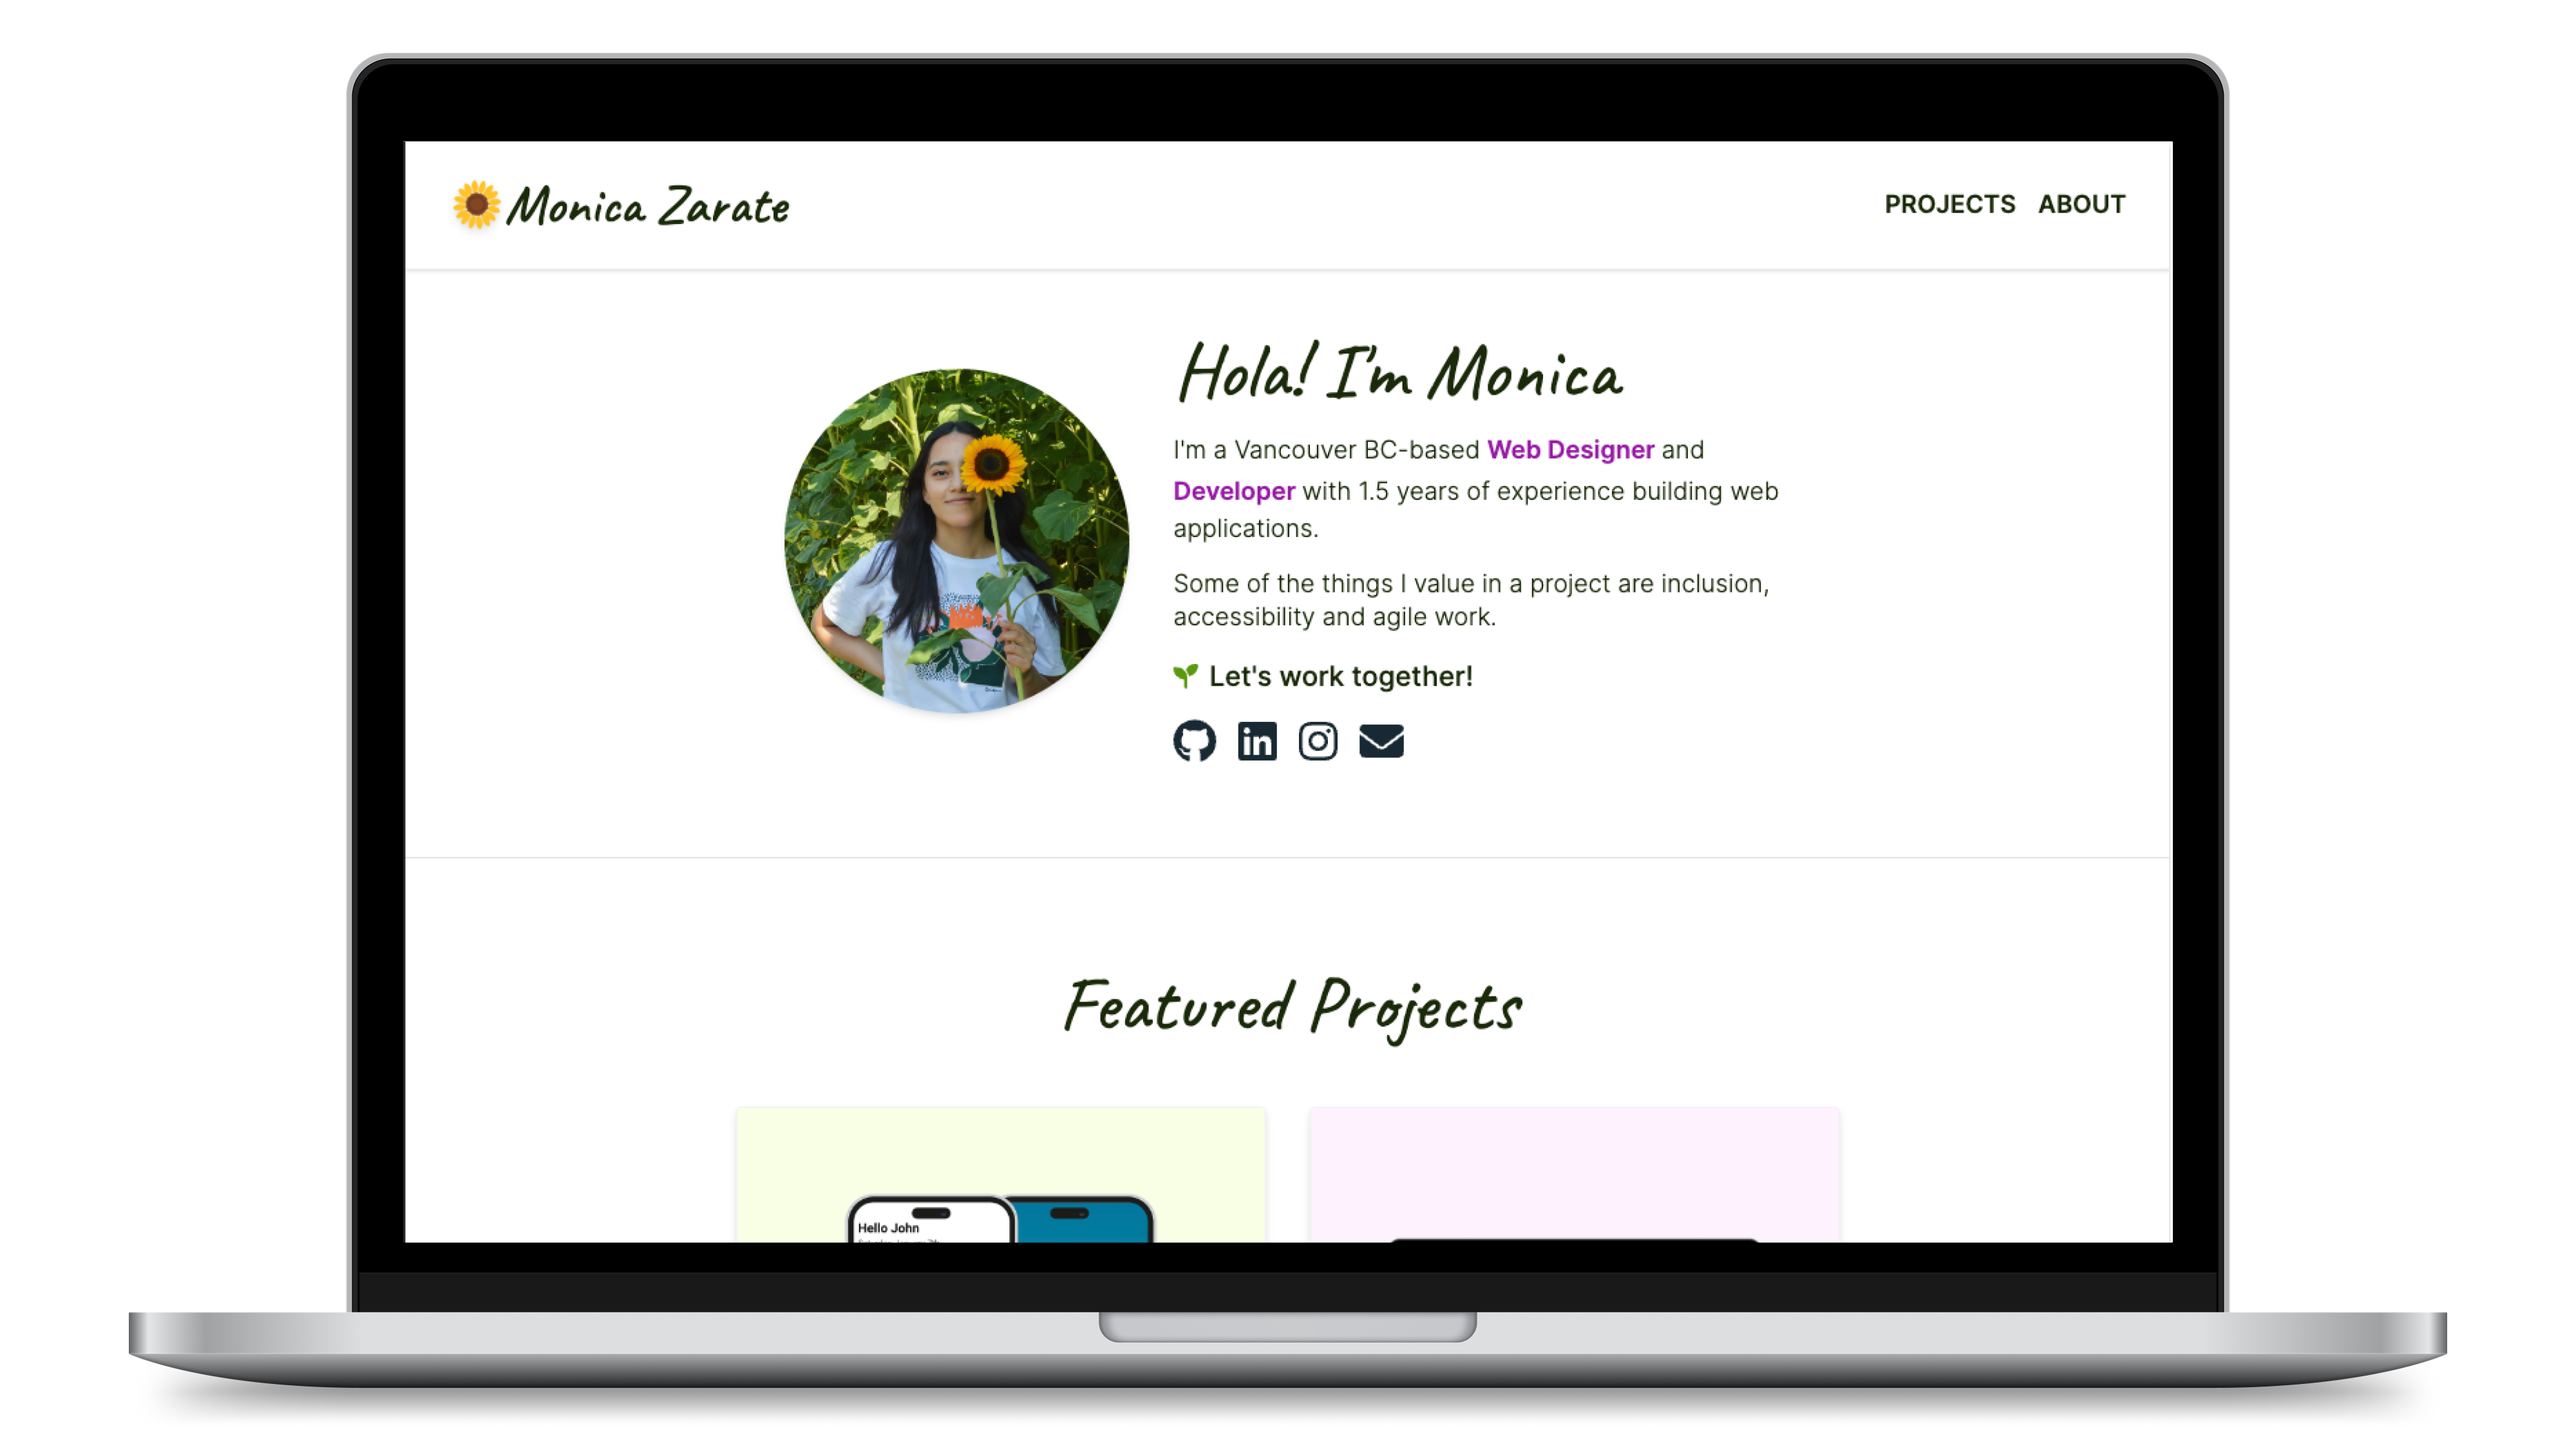
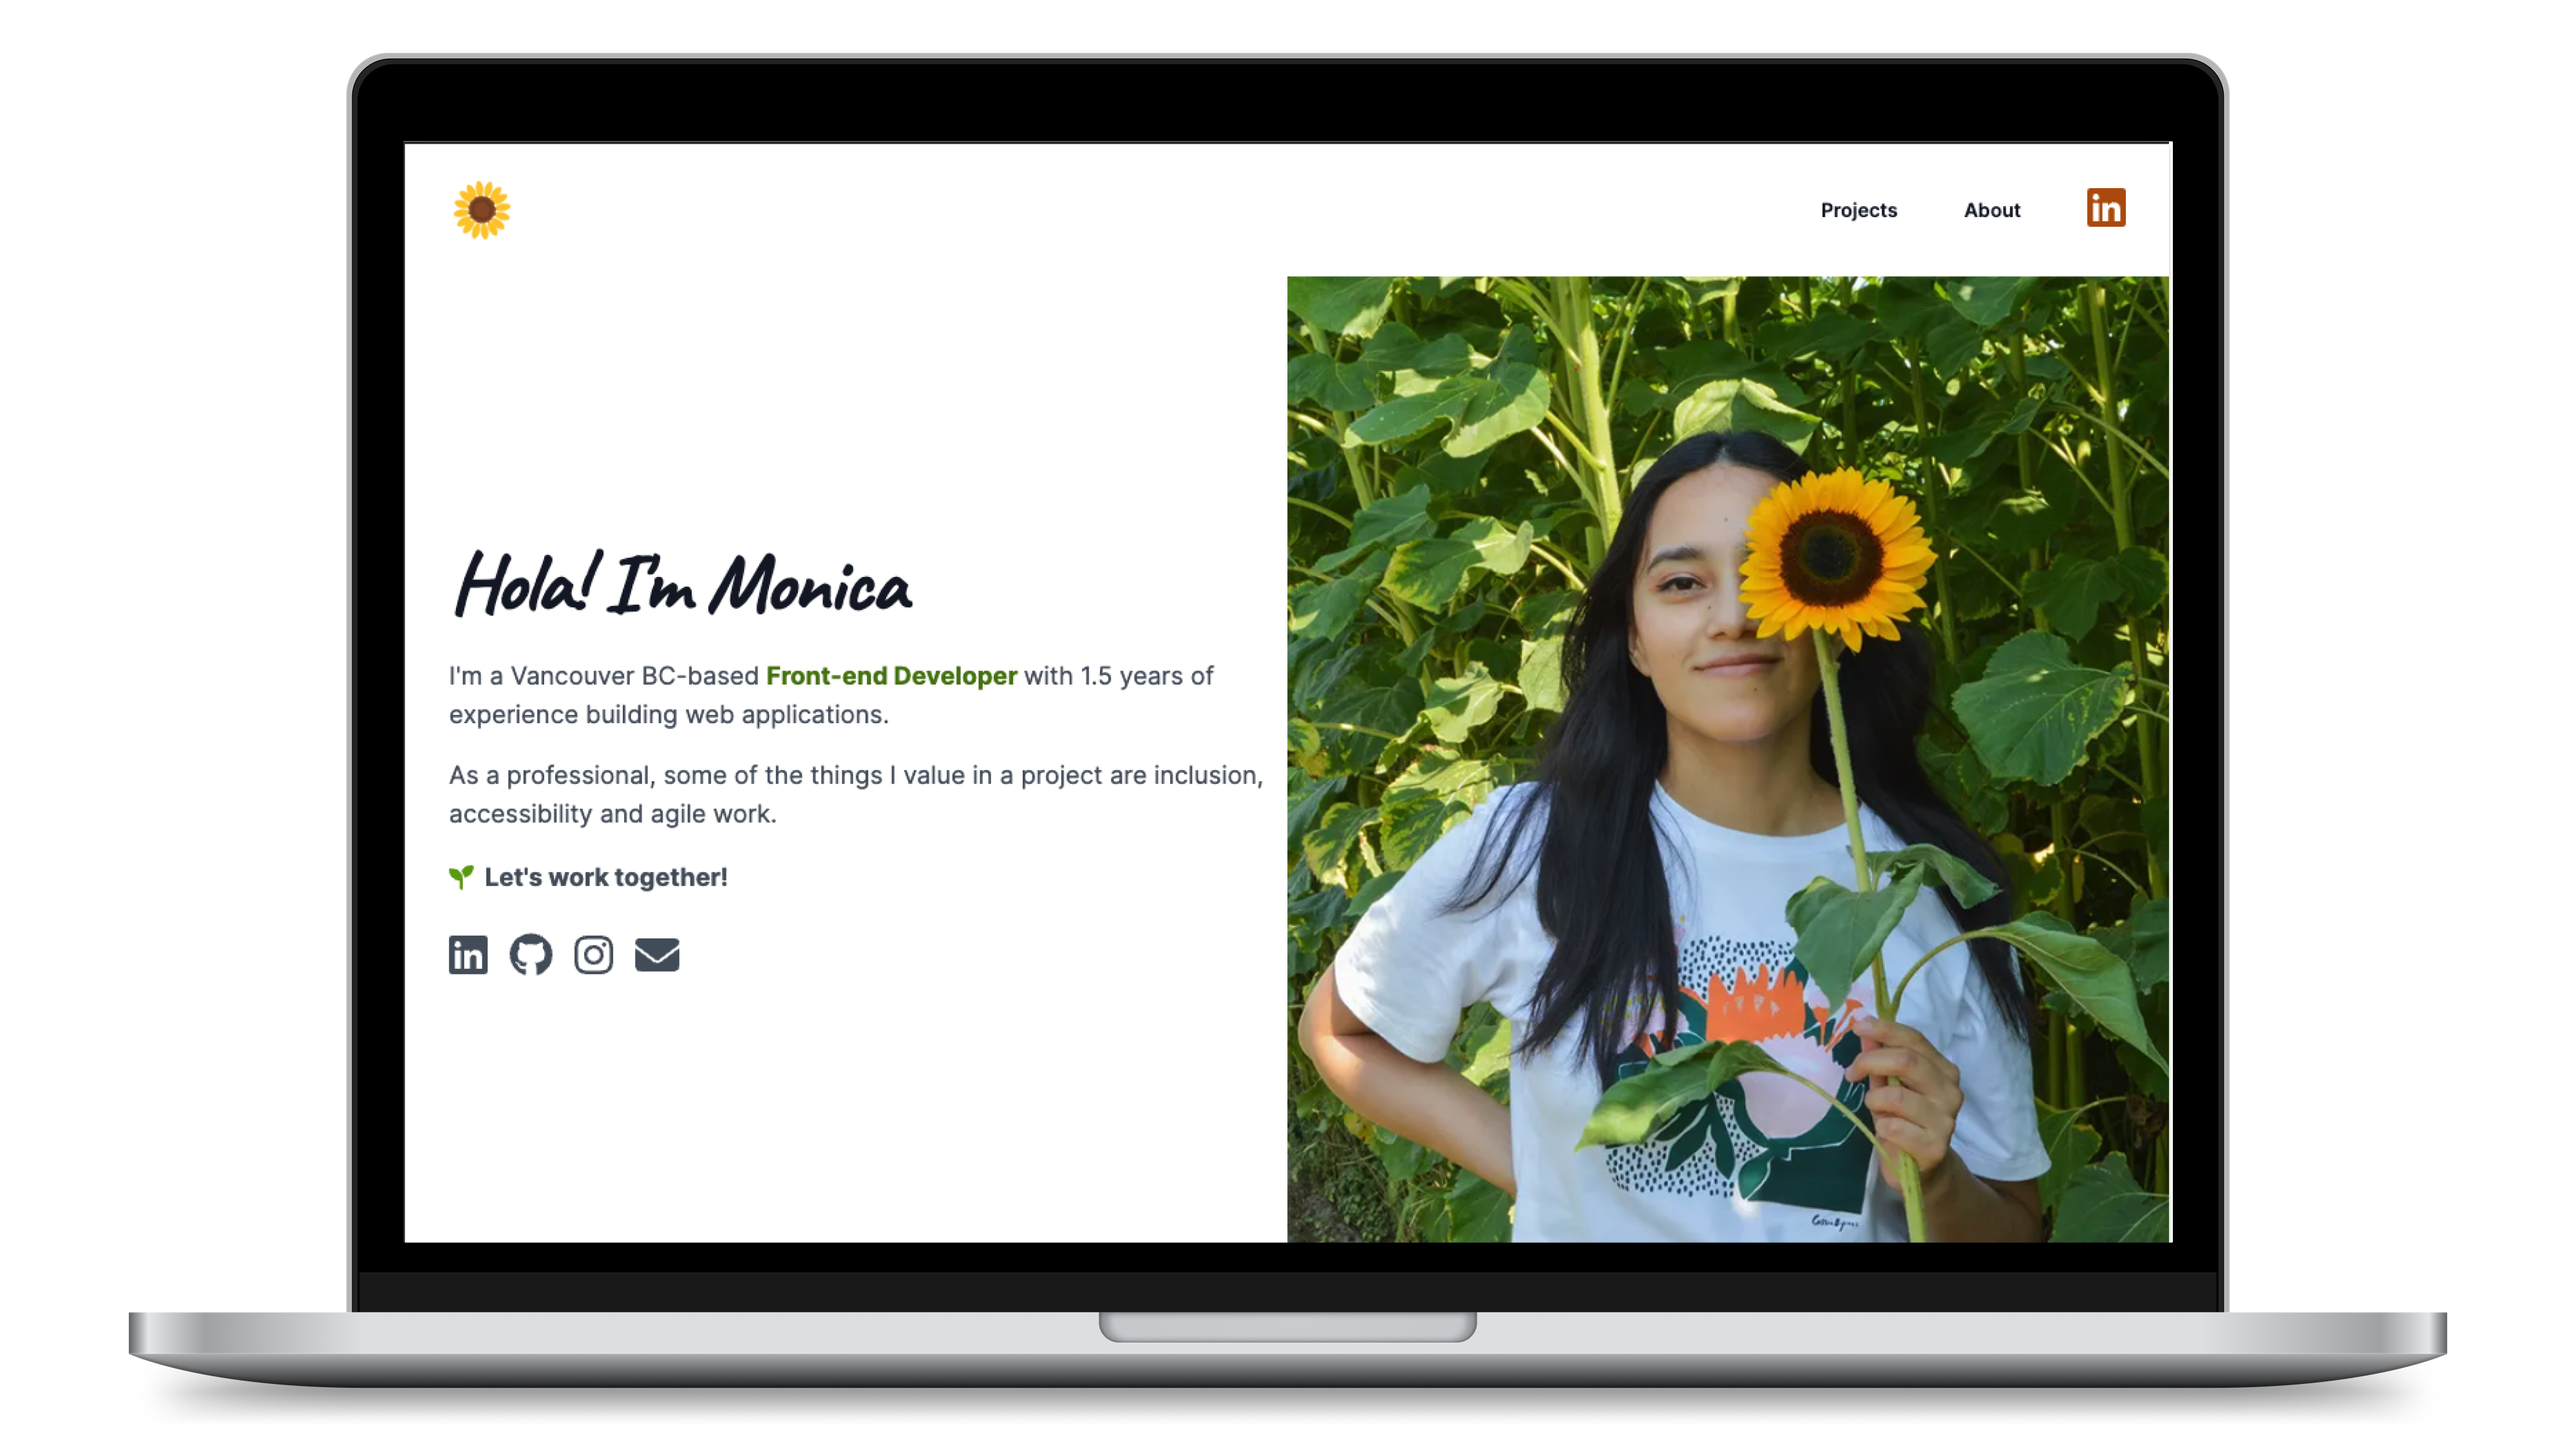
Updated assets and metadata.

Changed region(s): [[0.1562, 0.1867, 0.8438, 0.8711], [0.1562, 0.1244, 0.3125, 0.1556], [0.7188, 0.1244, 0.8438, 0.1556]]

diff --git a/src/app/(routes)/projects/page.tsx b/src/app/(routes)/projects/page.tsx
@@ -52,7 +52,7 @@ export default function Projects() {
                                                     <div className="mt-6 flex border-t border-gray-900/5 pt-6">
                                                         <div className="relative flex items-center gap-x-4">
                                                             <div className="text-sm leading-6">
-                                                                <ul className="flex items-center gap-x-4 text-xs">
+                                                                <ul className="flex flex-wrap items-center gap-x-4 text-xs gap-y-4">
                                                                     {project.tools.map((tool, i) => (
                                                                         <li
                                                                         key={i}

diff --git a/src/app/constants/projects.js b/src/app/constants/projects.js
@@ -27,8 +27,7 @@ import {
   tcDev2,
   tcDev3,
   tc,
-  tcDesignThumb,
-  tcDevThumb,
+  tcThumb,
   mz,
   mz1,
   mzThumb,
@@ -321,7 +320,7 @@ export const projects = [
     title: "Travel Compass: Phase 1 App Prototype",
     subtitle: "Travel Management Mobile App Interface Design",
     images: {
-      thumb: tcDesignThumb,
+      thumb: tcThumb,
       thumbAlt: "travel compass mobile interface preview",
       featuredImg: tc,
       featuredImgAlt: "travel compass mobile interface preview",
@@ -433,7 +432,7 @@ export const projects = [
     title: "Travel Compass: Phase 2 Development",
     subtitle: "React Native Application for Android devices",
     images: {
-      thumb: tcDevThumb,
+      thumb: tcThumb,
       thumbAlt: "travel compass mobile interface preview",
       featuredImg: tc,
       featuredImgAlt: "travel compass mobile interface preview",

diff --git a/src/assets/index.js b/src/assets/index.js
@@ -33,8 +33,7 @@ import tcDev1 from "./images/projects/tc-dev-1.png";
 import tcDev2 from "./images/projects/tc-dev-2.png";
 import tcDev3 from "./images/projects/tc-dev-3.png";
 import tc from "./images/projects/tc.png";
-import tcDesignThumb from "./images/projects/tc-design-thumb.png";
-import tcDevThumb from "./images/projects/tc-dev-thumb.png";
+import tcThumb from "./images/projects/tc-thumb.png";
 import mz from "./images/projects/mz.png";
 import mz1 from "./images/projects/mz-1.png";
 import mzThumb from "./images/projects/mz-thumb.png";
@@ -72,8 +71,7 @@ export {
   tcDev2,
   tcDev3,
   tc,
-  tcDesignThumb,
-  tcDevThumb,
+  tcThumb,
   mz,
   mz1,
   mzThumb,

diff --git a/src/app/constants/index.js b/src/app/constants/index.js
@@ -90,16 +90,6 @@ export const pagesContent = {
           },
           {
             id: 3,
-            content: "and",
-            isHighlight: false,
-          },
-          {
-            id: 4,
-            content: "Web Designer",
-            isHighlight: true,
-          },
-          {
-            id: 5,
             content: "with 1.5 years of experience building web applications.",
             isHighlight: false,
           },
@@ -355,7 +345,6 @@ export const pagesContent = {
     ids: {
       intro: "intro",
       learnMore: "learnmore",
-      guavaPunch: "guava-punch",
     },
   },
   notFound: {

diff --git a/src/app/layout.tsx b/src/app/layout.tsx
@@ -5,8 +5,8 @@ import Footer from "./_components/Footer"
 import GoogleAnalytics from "./GoogleAnalytics"
 
 export const metadata = {
-  title: "Monica Zarate - Web Designer and Developer",
-  description: "Monica Zarate is a Vancouver BC-based Web Designer and Developer.",
+  title: "Monica Zarate | Front-end Developer",
+  description: "Monica Zarate is a Vancouver BC-based Front-end Developer.",
 }
 
 export default function RootLayout({
